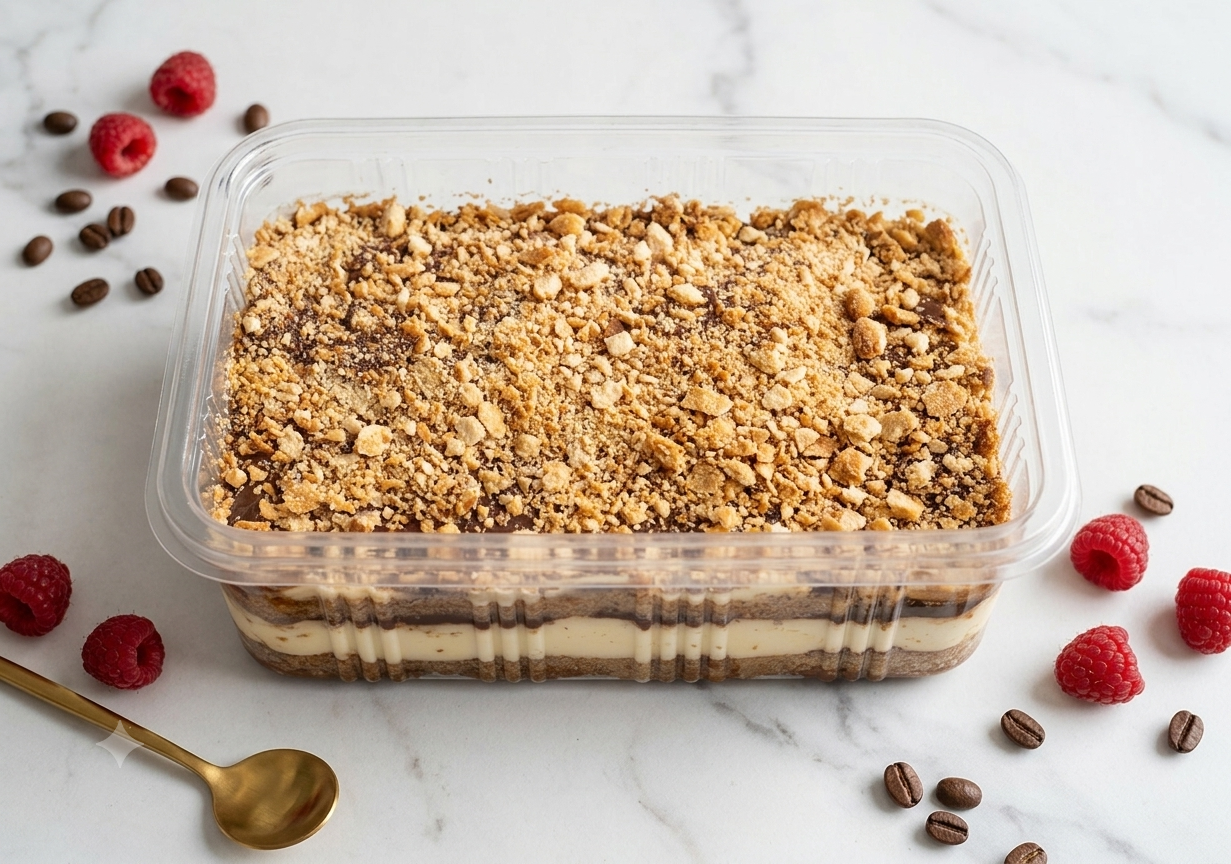
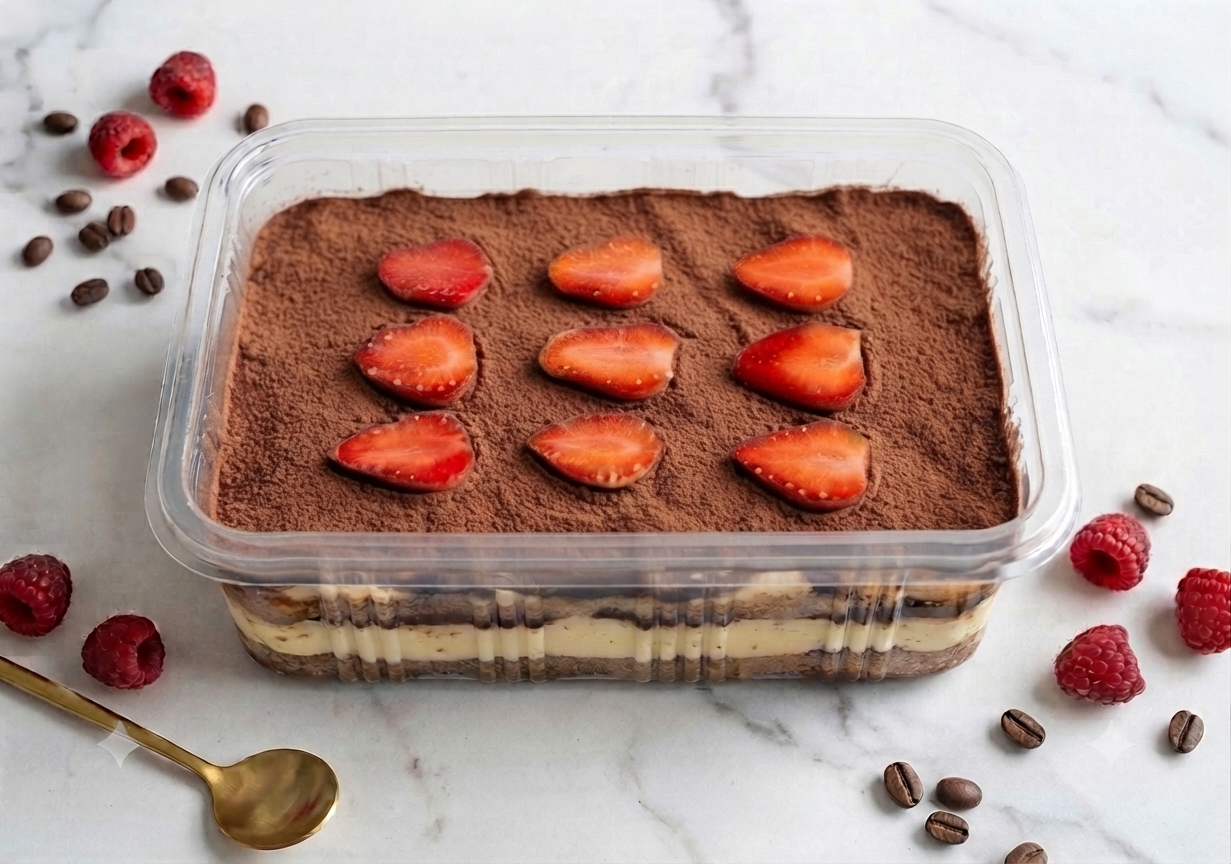
name mismatch fixing

diff --git a/frontend/src/components/Products.jsx b/frontend/src/components/Products.jsx
@@ -3,7 +3,7 @@ import { businessPresets } from "../data/businessPresets";
 import heroBg from "../assets/hero-bg.jpg";
 import whiteCoconut from "../assets/white-coconut.jpg";
 import blackStrawberry from "../assets/black-strawberry.jpg";
-import kinderBiscoff from "../assets/kinder-biscoff.jpg";
+import kinder from "../assets/kinder.jpg"; // Imported as 'kinder'
 import oreo from "../assets/oreo.jpg";
 import whiteStrawberry from "../assets/white-strawberry.jpg";
 import lotusBiscoff from "../assets/lotus-biscoff.jpg";
@@ -11,7 +11,7 @@ import lotusBiscoff from "../assets/lotus-biscoff.jpg";
 const productImages = {
   "White Coconut": whiteCoconut,
   "Black Strawberry": blackStrawberry,
-  "Kinder Biscoff": kinderBiscoff,
+  "Kinder Biscoff": kinder, // 👈 FIXED: Use the imported variable 'kinder' here
   "Oreo": oreo,
   "White Strawberry": whiteStrawberry,
   "Lotus Biscoff": lotusBiscoff,
@@ -40,6 +40,7 @@ export default function Products() {
           {/* Products Grid */}
           <div className="grid grid-cols-1 md:grid-cols-2 lg:grid-cols-3 gap-8">
             {products.map((product) => {
+              // This will now correctly find "Kinder Biscoff" and use the 'kinder' image
               const productImage = productImages[product.name] || heroBg;
               
               return (

diff --git a/frontend/src/data/businessPresets.js b/frontend/src/data/businessPresets.js
@@ -51,8 +51,8 @@ export const businessPresets = {
 
       {
         id: 3,
-        slug: "kinder-biscoff",
-        name: "Kinder Biscoff",
+        slug: "kinder",
+        name: "Kinder",
         description:
           "Lotus biscoff cookies layered with creamy custard",
 